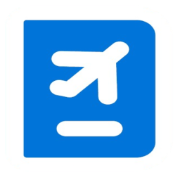
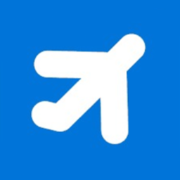
update: some commits

diff --git a/src/components/home/VisaSolutions.jsx b/src/components/home/VisaSolutions.jsx
@@ -11,7 +11,7 @@ const services = [
     id: 1,
     title: "Tourist Visa",
     url: "/tourist-visa",
-    location: "Geiranger, Norway",
+    description: "Complete assistance for tourist visa applications to your dream destinations",
     image:
       "/images/landmarks/Sultan Qaboos Mosque tourist places in Oman Visa.webp",
     rating: 4.9,
@@ -21,7 +21,7 @@ const services = [
     id: 2,
     title: "Business Visa",
     url: "/business-visa",
-    location: "Tromsø, Norway",
+    description: "Streamlined business visa processing for corporate travelers",
     image: "/images/landmarks/Sydney Opera House in Australia Visa.webp",
     rating: 4.3,
     size: "small",
@@ -30,7 +30,7 @@ const services = [
     id: 3,
     title: "End To End Tourist Visa Aeestence",
     url: "/end-to-end",
-    location: "Oslo, Norway",
+    description: "Comprehensive visa support from documentation to approval",
     image: "/images/landmarks/Atomium in Belgium Visa.webp",
     rating: 4.7,
     size: "small",
@@ -39,7 +39,7 @@ const services = [
     id: 4,
     title: "Dummy Flights",
     url: "/dummy-flights",
-    location: "Geiranger, Norway",
+    description: "Best deals on international flights with flexible options",
     image:
       "/images/landmarks/Big Ben tourist places in United Kingdom UK Visa.webp",
     rating: 4.9,
@@ -49,7 +49,7 @@ const services = [
     id: 5,
     title: "Dummy Hotel",
     url: "/dummy-hotel",
-    location: "Tromsø, Norway",
+    description: "Curated hotel selections for your perfect stay abroad",
     image: "/images/landmarks/Wawel Castle tourist places in Poland Visa.webp",
     rating: 4.6,
     size: "large",
@@ -85,7 +85,7 @@ export default function VisaSolutions() {
                 <h3 className="text-lg font-medium text-gray-900">
                   {place.title}
                 </h3>
-                <p className="text-sm text-gray-600">{place.location}</p>
+                <p className="text-sm line-clamp-2 text-gray-500">{place.description}</p>
                 {/* <div className="inline-flex mt-3 items-center bg-[#F2DBB1] text-[#DD9115] px-3 py-1 rounded-full text-[12px]">
                   <FaStar className="mr-1" />
                   {place.rating}
@@ -115,7 +115,7 @@ export default function VisaSolutions() {
                 <h3 className="text-lg font-medium text-gray-900">
                   {place.title}
                 </h3>
-                <p className="text-sm text-gray-600">{place.location}</p> 
+                <p className="text-sm line-clamp-2 text-gray-500">{place.description}</p> 
                 {/* <div className="inline-flex mt-3 items-center bg-[#F2DBB1] text-[#DD9115] px-3 py-1 rounded-full text-[12px]">
                   <FaStar className="mr-1" />
                   {place.rating}

diff --git a/src/components/countries/CountryVisaSolution.jsx b/src/components/countries/CountryVisaSolution.jsx
@@ -11,7 +11,7 @@ const services = [
     id: 1,
     title: "Tourist Visa",
     url: "/tourist-visa",
-    location: "Geiranger, Norway",
+    description: "Complete assistance for tourist visa applications to your dream destinations",
     image:
       "/images/landmarks/Sultan Qaboos Mosque tourist places in Oman Visa.webp",
     rating: 4.9,
@@ -21,7 +21,7 @@ const services = [
     id: 2,
     title: "Business Visa",
     url: "/business-visa",
-    location: "Tromsø, Norway",
+    description: "Streamlined business visa processing for corporate travelers",
     image: "/images/landmarks/Sydney Opera House in Australia Visa.webp",
     rating: 4.3,
     size: "small",
@@ -30,7 +30,7 @@ const services = [
     id: 3,
     title: "End To End Tourist Visa Aeestence",
     url: "/end-to-end",
-    location: "Oslo, Norway",
+    description: "Comprehensive visa support from documentation to approval",
     image: "/images/landmarks/Atomium in Belgium Visa.webp",
     rating: 4.7,
     size: "small",
@@ -39,7 +39,7 @@ const services = [
     id: 4,
     title: "Dummy Flights",
     url: "/dummy-flights",
-    location: "Geiranger, Norway",
+    description: "Best deals on international flights with flexible options",
     image:
       "/images/landmarks/Big Ben tourist places in United Kingdom UK Visa.webp",
     rating: 4.9,
@@ -49,7 +49,7 @@ const services = [
     id: 5,
     title: "Dummy Hotel",
     url: "/dummy-hotel",
-    location: "Tromsø, Norway",
+    description: "Curated hotel selections for your perfect stay abroad",
     image: "/images/landmarks/Wawel Castle tourist places in Poland Visa.webp",
     rating: 4.6,
     size: "large",
@@ -85,7 +85,7 @@ export default function VisaSolutions() {
                 <h3 className="text-lg font-medium text-gray-900">
                   {place.title}
                 </h3>
-                <p className="text-sm text-gray-600">{place.location}</p>
+                <p className="text-sm line-clamp-2 text-gray-500">{place.description}</p>
                 {/* <div className="inline-flex mt-3 items-center bg-[#F2DBB1] text-[#DD9115] px-3 py-1 rounded-full text-[12px]">
                   <FaStar className="mr-1" />
                   {place.rating}

diff --git a/src/components/home/OneStopSolutions.jsx b/src/components/home/OneStopSolutions.jsx
@@ -9,7 +9,7 @@ import Image from 'next/image';
 const services = [
   {
     iconUrl: "/images/icon/bag.svg",
-    title: 'End to end visa solutions',
+    title: 'End to End visa solutions',
     description: 'From flights, stays, to sights, just count on our complete products.'
   },
   {
@@ -37,13 +37,14 @@ export default function OneStopSolutions() {
           <motion.div 
             key={index} 
             // style={{boxShadow: '0px 1px 20px rgba(220, 220, 220, 0.3)'}}
-            className="bg-white myshadow p-[26px] rounded-2xl  text-center flex flex-col items-center"
+            className=" p-[26px] relative   text-center flex flex-col items-center"
             initial={{ opacity: 0, y: 20 }}
             whileInView={{ opacity: 1, y: 0 }}
             transition={{ duration: 0.5, delay: index * 0.2 }}
             viewport={{ once: true }}
           >
-            <div className=" mb-[30px]">
+         {  index != 2 &&   <img src={"/images/icon/aeroplane.png"} alt={service.title} className="absolute top-[15px] hidden md:block opacity-80 left-[60%] lg:left-[60%] xl:left-[253px] w-auto h-[45px] lg:h-[55px] z-20" />}
+            <div className=" relative mb-[30px]">
               <Image src={service.iconUrl} alt={service.title} width={60} height={60} className="w-[60px] h-[60px]" />
             </div>
             <Heading level={4} className="text-secondary-500 mb-4">

diff --git a/src/components/Layout/Navbar.jsx b/src/components/Layout/Navbar.jsx
@@ -123,7 +123,7 @@ export default function Navbar() {
           <Link href="/" className="flex items-center">
             <div className="flex items-center gap-2">
               <img 
-                src="/images/logo/logo.png" 
+                src="/logo/logo-blue.png" 
                 alt="Eazy Visa Logo" 
                 className="h-8 w-auto"
                 width={32}
@@ -331,7 +331,7 @@ export default function Navbar() {
             <div className="flex items-center justify-between p-4 border-b border-gray-100">
               <Link href="/" className="flex items-center" onClick={() => setIsOpen(false)}>
                 <img 
-                  src="/images/logo/logo.png" 
+                  src="/logo/logo-blue.png" 
                   alt="Eazy Visa Logo" 
                   className="h-8 w-auto"
                 />

diff --git a/src/app/layout.js b/src/app/layout.js
@@ -3,7 +3,6 @@ import "./globals.css";
 import Navbar from "@/components/Layout/Navbar";
 import Footer from "@/components/Layout/Footer";
 
-import { LazyMotion, domAnimation } from "framer-motion";
 
 const poppins = Poppins({
   subsets: ["latin"],
@@ -47,12 +46,10 @@ export default function RootLayout({ children }) {
         {/* You can also add additional meta tags here if needed */}
       </head>
       <body className="font-sans">
-      <LazyMotion features={domAnimation}>
-          <Navbar />
-          <div className="mt-[80px]">
-            {children}
-          </div>
-        </LazyMotion>
+        <Navbar />
+        <div className="mt-[80px]">
+          {children}
+        </div>
       </body>
     </html>
   );

diff --git a/src/components/home/Hero.jsx b/src/components/home/Hero.jsx
@@ -72,10 +72,10 @@ export default function HeroSection() {
           transition={{ duration: 0.5 }}
           className="space-y-6"
         >
-          <div className="inline-flex  items-center gap-3 bg-white/80 backdrop-blur-sm px-6 py-3 rounded-full myshadow border border-gray-200">
+          <Link href={"/countries"} className="inline-flex  items-center gap-3 bg-white/80 backdrop-blur-sm px-6 py-3 rounded-full myshadow border border-gray-200">
             <span className="text-blue-500 font-semibold">Explore the world!</span>
             <FaCompass className="text-[#facd49] text-xl" />
-          </div>
+          </Link>
 
           <Heading level={1} className="uppercase font-bold">
             Stress Free Visa, <br />

diff --git a/src/components/home/Destinations.jsx b/src/components/home/Destinations.jsx
@@ -32,7 +32,7 @@ export default function DestinationSlider() {
         {/* Section Heading */}
         <div className="flex items-center justify-between mb-6">
           <div>
-            <Subheading className="text-primary-500 uppercase mb-2">Countries</Subheading>
+            <Subheading className="text-primary-500 tracking-wider uppercase mb-2">Countries</Subheading>
             <Heading level={2} className="text-secondary-500 mb-10">
               Explore top destinations
             </Heading>
